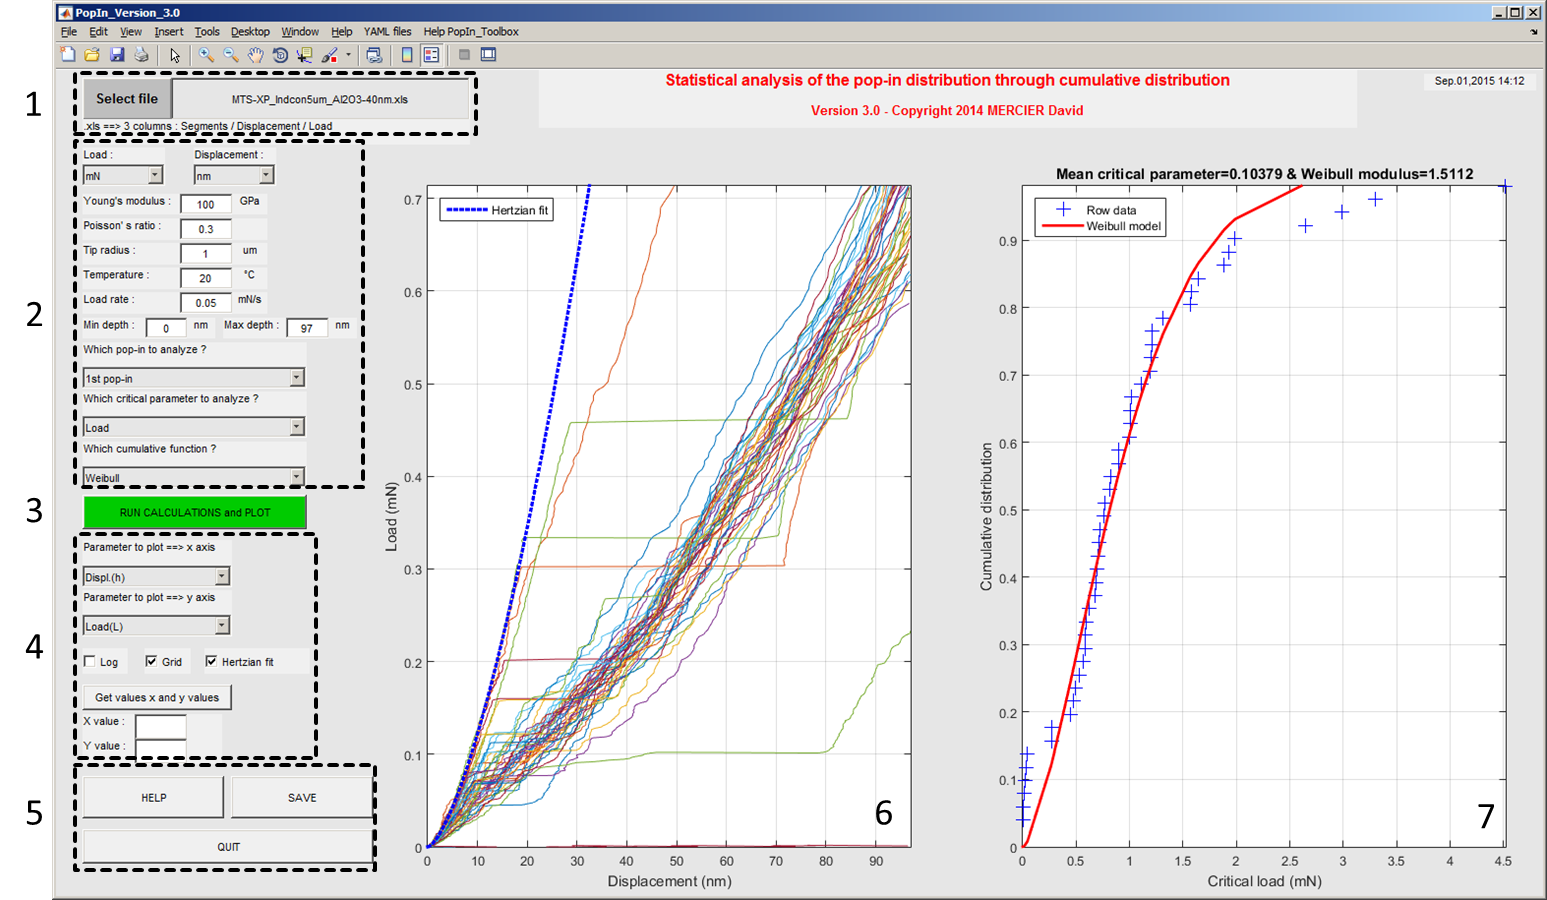
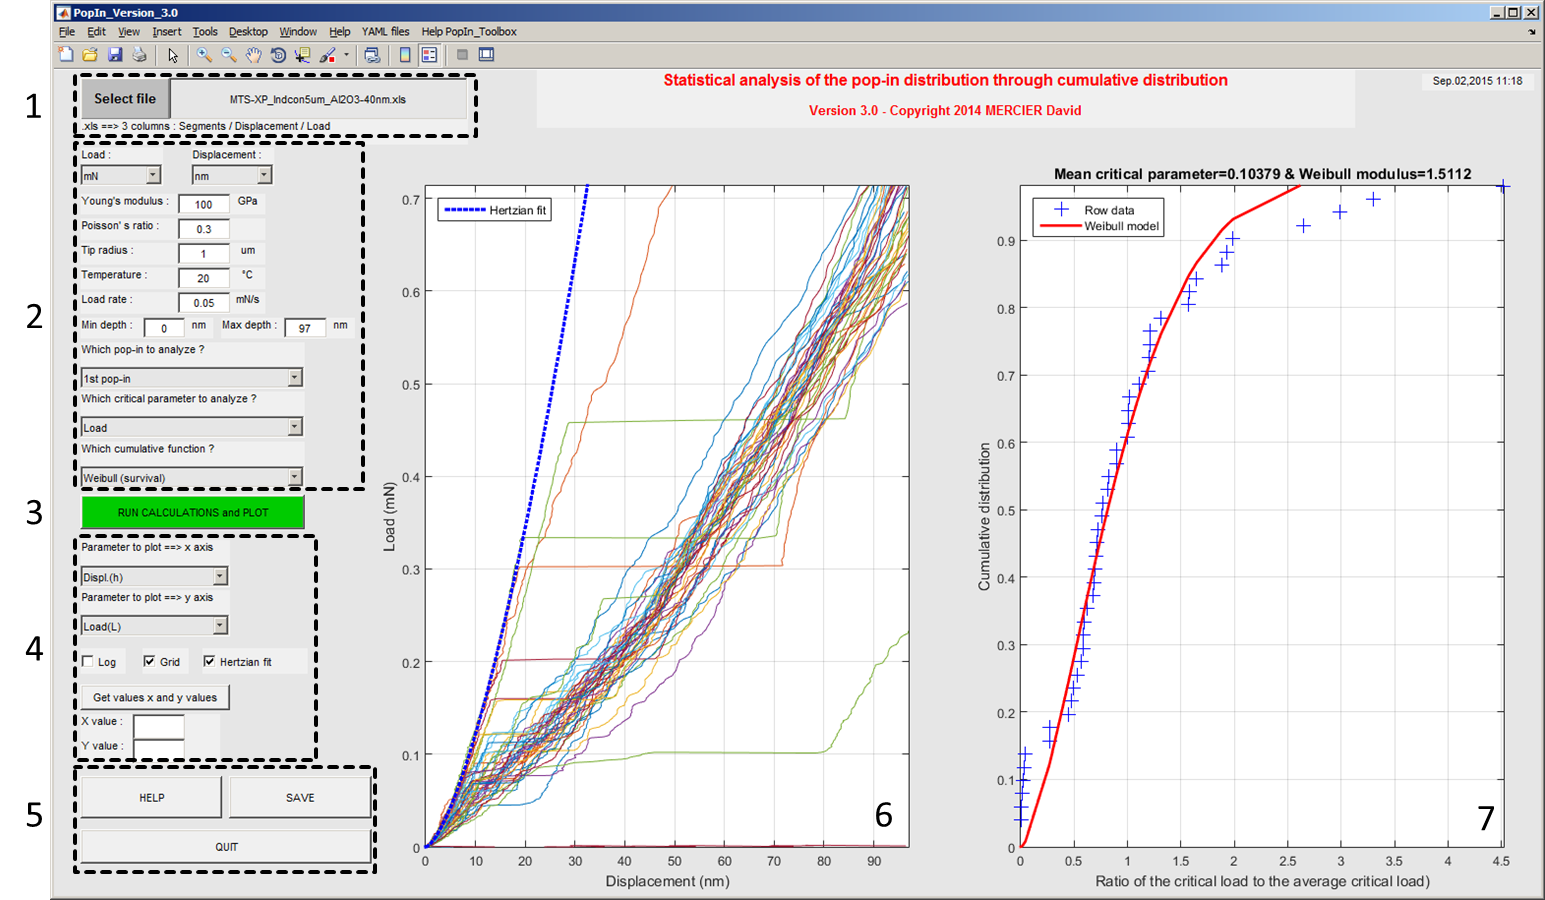
updated doc

diff --git a/doc/models.rst b/doc/models.rst
@@ -83,6 +83,9 @@ the mean critical displacement :math:`h^0_{crit}` at which the pop-in event appe
 Find here the |matlab| function to calculate the cumulative survival Weibull distribution:
 `Weibull_cdf.m <https://github.com/DavidMercier/PopIn/blob/master/Matlab_code/statistics/Weibull/Weibull_cdf.m>`_.
 
+Find here the |matlab| function to calculate the cumulative mortal Weibull distribution:
+`Weibull_cdf_mortal.m <https://github.com/DavidMercier/PopIn/blob/master/Matlab_code/statistics/Weibull/Weibull_cdf_mortal.m>`_.
+
 Chechenin et al. proposed to use a modified cumulative Weibull distribution function for
 the description of the statistics of the pop-in event [#Chechenin_1995]_.
 This function is set to have a probability of 0.5, when :math:`F_{crit}` (the critical load)
@@ -96,6 +99,9 @@ are implemented in the PopIn toolbox.
 
 Find here the |matlab| function to calculate the cumulative modified survival Weibull distribution:
 `Weibull_modified_cdf.m <https://github.com/DavidMercier/PopIn/blob/master/Matlab_code/statistics/Weibull/Weibull_modified_cdf.m>`_.
+
+Find here the |matlab| function to calculate the cumulative modified mortal Weibull distribution:
+`Weibull_modified_cdf_mortal.m <https://github.com/DavidMercier/PopIn/blob/master/Matlab_code/statistics/Weibull/Weibull_modified_cdf_mortal.m>`_.
 
 .. _dislocation_nucleation:
 
@@ -242,8 +248,14 @@ Rupture of a hard brittle film on an elastic-plastic substrate
 ################################################################
 
 In the case of indentation made into a hard brittle film (e.g.: native or thermally/anodically grown oxide, ALD coatings ...)
-on an elastic-plastic (ductile) substrate, pop-in were observed experimentally and linked to the fracture of the brittle film (see Figure 4)
+on an elastic-plastic (ductile) substrate, pop-in were observed experimentally and linked to the fracture of the brittle film (see Figures 4 and 5)
 [#Kramer_2001]_, [#Bahr_2003]_, [#Morash_2007]_ and [#Stauffer_2012]_.
+
+.. figure:: ./_pictures/load-disp_curve_popin_load_sub.png
+   :scale: 30 %
+   :align: center
+
+   *Figure 4 : Schematic of indentation load-displacement curve with a pop-in event and the plot of the load carried by the elastic-plastic substrate.*
 
 Some authors explained that a circumferential crack appears at the location of the elastic–plastic boundary in the substrate [#Bahr_2003]_ and [#Morash_2007]_.
 The radius :math:`c` of this plastic zone in the ductile substrate is defined by the following equation :
@@ -251,8 +263,9 @@ The radius :math:`c` of this plastic zone in the ductile substrate is defined by
     .. math:: c = \sqrt{\frac{3F_\text{crit,s}}{2\pi\sigma_\text{e}}}
             :label: plastic_zone_radius
 
-With :math:`F_\text{crit,s}` the load carried by the substrate obtained with the power law relationship :eq:`critical_load_substrate`,
-and :math:`\sigma_\text{e}` is the yield stress of the ductile substrate [#Hainsworth_1995]_.
+With :math:`F_\text{crit,s}` the load carried by the substrate at the critical indentation depth at which pop-in occurs,
+obtained usually with the power law relationship :eq:`critical_load_substrate`.
+:math:`\sigma_\text{e}` is the yield stress of the ductile substrate [#Hainsworth_1995]_.
 
     .. math:: F_\text{crit,s} = Kh_\text{crit}^n
             :label: critical_load_substrate
@@ -265,9 +278,9 @@ obtained from nanoindentation tests performed on the substrate without the britt
    :scale: 30 %
    :align: center
 
-   *Figure 4 : Schematic cross section of deformation profile of a hard brittle film on an elastic-plastic substrate under indentation.*
+   *Figure 5 : Schematic cross section of deformation profile of a hard brittle film on an elastic-plastic substrate under indentation.*
    
-In the Figure 4, :math:`R` is the radius of the spherical indenter, :math:`t` is the thickness of the thin film, :math:`F_\text{c}` is the applied load,
+In the Figure 5, :math:`R` is the radius of the spherical indenter, :math:`t` is the thickness of the thin film, :math:`F_\text{c}` is the applied load,
 :math:`h` is the indentation displacement, :math:`c` the radius of the plastic zone in the substrate and :math:`a_\text{c}` the contact radius between the indenter and the thin film.
 
 Find here the |matlab| function to calculate the plastic radius :math:`c`:
